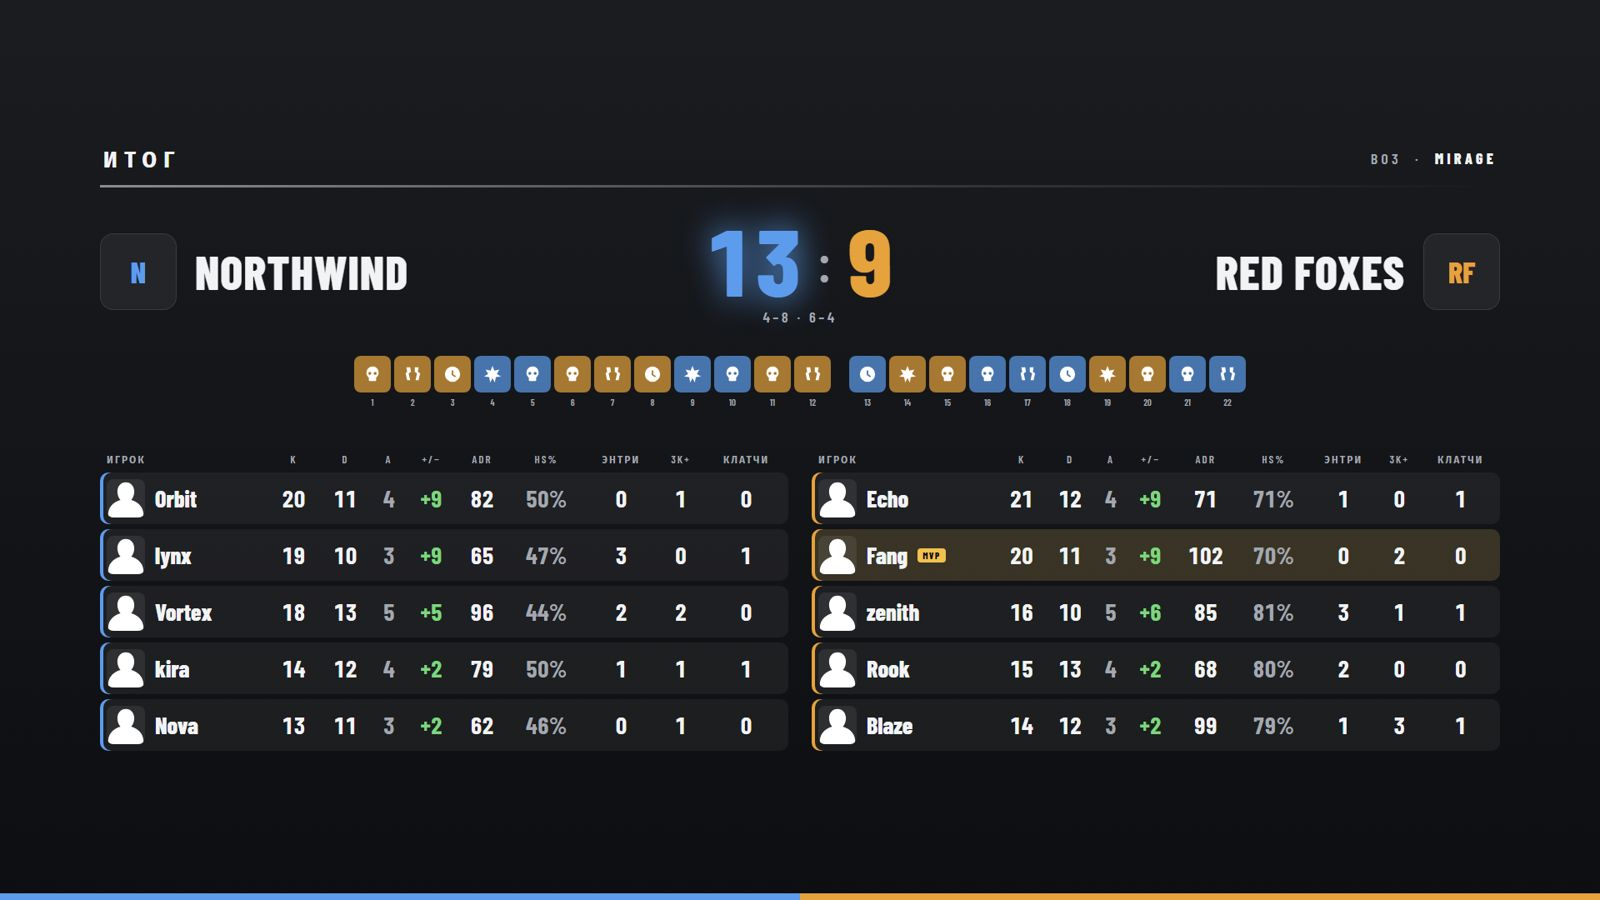
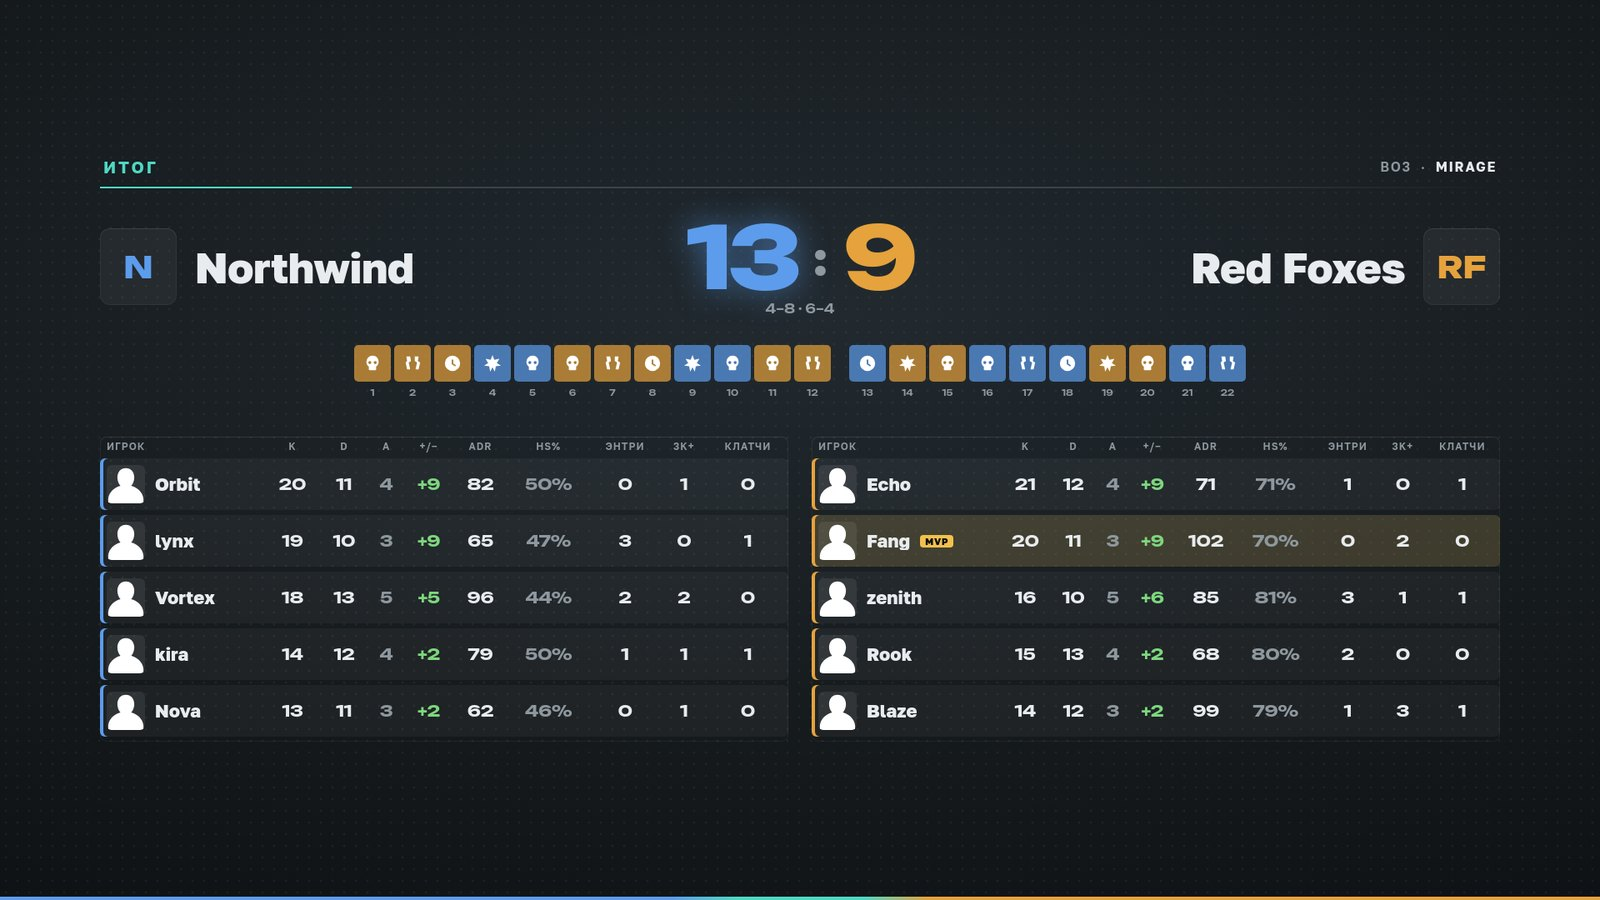
Plans: three HUD styles from «Базовая», no HUD editor in «Организатор»; «HUD под бренд» 7 000 ₽ covers our HUDs, break, transitions and stats; final stats image in the new Freezetime look; VAC note wider, -insecure never breaks

diff --git a/index.html b/index.html
@@ -132,7 +132,8 @@ p { margin: 0; }
 
 /* ---------- Start: a real timeline in minutes ---------- */
 .start { padding: clamp(60px, 8vw, 110px) 0; }
-.vac { margin-top: 36px; padding: 20px 24px; border: 1px solid var(--danger); border-left-width: 6px; background: color-mix(in srgb, var(--danger) 10%, transparent); max-width: 980px; }
+.vac { margin-top: 36px; padding: 20px 24px; border: 1px solid var(--danger); border-left-width: 6px; background: color-mix(in srgb, var(--danger) 10%, transparent); max-width: 1160px; }
+.vac code { white-space: nowrap; }
 .vac b { display: block; font: 600 clamp(18px, 2vw, 22px)/1.3 var(--display); }
 .vac p { margin-top: 8px; color: #c9d1d5; }
 .line { margin-top: 44px; display: grid; grid-template-columns: repeat(4, 1fr); position: relative; }
@@ -296,7 +297,7 @@ footer .wrap { display: flex; flex-wrap: wrap; gap: 12px 28px; justify-content: 
           <div class="job"><div class="who"><s>обсервер</s><br>автокамера</div><div><h3>Камера сама находит драку</h3><p>Переключается на игрока, у которого сейчас решается раунд: перестрелка, клатч, разминирование. Можно перехватить управление в любой момент.</p></div></div>
           <div class="job"><div class="who"><s>монтажёр</s><br>повторы</div><div><h3>Повтор лучшего момента — без монтажа</h3><p>Мульти-килл или клатч сам попадает в повтор после раунда. Или по клавише F4 — последние секунды прямо сейчас.</p></div></div>
           <div class="job"><div class="who"><s>режиссёр</s><br>сцены</div><div><h3>Сцены меняются сами</h3><p>Игра, перерыв, статистика в конце половины и карты. Программа сама создаёт сцены в OBS и следит, чтобы ничего не отвалилось.</p></div></div>
-          <div class="job"><div class="who"><s>дизайнер</s><br>HUD</div><div><h3>Логотипы, цвета и спонсоры — ваши</h3><p>Нейтральный HUD в цветах игры, а под ваш клуб — ваши цвета, логотип и спонсоры. Названия команд сокращаются сами и не вылезают за рамки.</p></div></div>
+          <div class="job"><div class="who"><s>дизайнер</s><br>HUD</div><div><h3>Логотипы, цвета и спонсоры — ваши</h3><p>Три стиля HUD на выбор — «Графит», «Линия» и «Табло», перерыв и переходы в одном оформлении. Под ваш клуб — ваши цвета, логотип и спонсоры. Названия команд сокращаются сами и не вылезают за рамки.</p></div></div>
           <div class="job"><div class="who"><s>организатор</s><br>сетка</div><div><h3>Сетка турнира без своего сайта</h3><p>Олимпийка, double elimination, группы или швейцарка — команды из списка, счёт вносится в программе, победитель сам проходит дальше. Сетка — отдельной сценой на трансляции, а матч одной кнопкой встаёт в HUD.</p></div></div>
         </div>
         <figure>
@@ -332,9 +333,9 @@ footer .wrap { display: flex; flex-wrap: wrap; gap: 12px 28px; justify-content: 
           <thead><tr><th></th><th>Что входит</th><th>Цена</th></tr></thead>
           <tbody>
             <tr class="trial"><td>Пробный</td><td>Все возможности на 3 дня эфира. День засчитывается, только когда программа ведёт живой матч: установка и настройка дни не тратят. После — бесплатный режим: HUD с надписью «Пробная версия» на эфире, без автокамеры, повторов, пролёток, сетки и спонсоров.</td><td class="price">0 ₽</td></tr>
-            <tr><td>Базовая</td><td>Один компьютер: автокамера, повторы, пролётки, статистика, сетка турнира, сцены OBS. Эфир в нашем HUD с логотипом одного вашего спонсора; ваши цвета, логотип и больше спонсоров — в пакете «HUD под бренд». Обновления и поддержка в Telegram.</td><td class="price">2 790 ₽<small>в месяц</small></td></tr>
-            <tr><td>Организатор</td><td>Всё из «Базовой» на трёх компьютерах, плюс редактор нашего HUD: свои цвета, шрифт, расположение и размер блоков, стиль перехода, спонсоров сколько угодно. Поддержка в первую очередь, перед турниром удалённо проверим и настроим эфир вместе с вами.</td><td class="price">4 790 ₽<small>в месяц</small></td></tr>
-            <tr class="addon"><td>HUD под бренд<em>к любой подписке</em></td><td><span>7 000 ₽</span> — наш HUD, перерыв, переходы и статистика в цветах вашего клуба, с вашим логотипом и спонсорами: присылаем файл, он встаёт в программу одной кнопкой. <span>от 20 000 ₽</span> — своё оформление с нуля: только HUD или весь эфир с перерывом и переходами (от 30 000 ₽). Рисуем, согласуем с вами (две правки входят) и программируем — подробнее в вопросе «Как заказать свой HUD?». Оформление обновляется вместе с программой.</td><td class="price">от 7 000 ₽<small>разово</small></td></tr>
+            <tr><td>Базовая</td><td>Один компьютер: автокамера, повторы, пролётки, статистика, сетка турнира, сцены OBS. Эфир в наших HUD — три стиля на выбор: «Графит», «Линия» и «Табло» — с логотипом одного вашего спонсора; ваши цвета, логотип и больше спонсоров — в пакете «HUD под бренд». Обновления и поддержка в Telegram.</td><td class="price">2 790 ₽<small>в месяц</small></td></tr>
+            <tr><td>Организатор</td><td>Всё из «Базовой» на трёх компьютерах, спонсоров сколько угодно. Поддержка в первую очередь, перед турниром удалённо проверим и настроим эфир вместе с вами.</td><td class="price">4 790 ₽<small>в месяц</small></td></tr>
+            <tr class="addon"><td>HUD под бренд<em>к любой подписке</em></td><td><span>7 000 ₽</span> — наши HUD, перерыв, переходы и статистика в цветах вашего клуба, с вашим логотипом и спонсорами: присылаем файл, он встаёт в программу одной кнопкой. <span>от 20 000 ₽</span> — своё оформление с нуля: только HUD или весь эфир с перерывом и переходами (от 30 000 ₽). Рисуем, согласуем с вами (две правки входят) и программируем — подробнее в вопросе «Как заказать свой HUD?». Оформление обновляется вместе с программой.</td><td class="price">от 7 000 ₽<small>разово</small></td></tr>
           </tbody>
         </table>
       </div>
